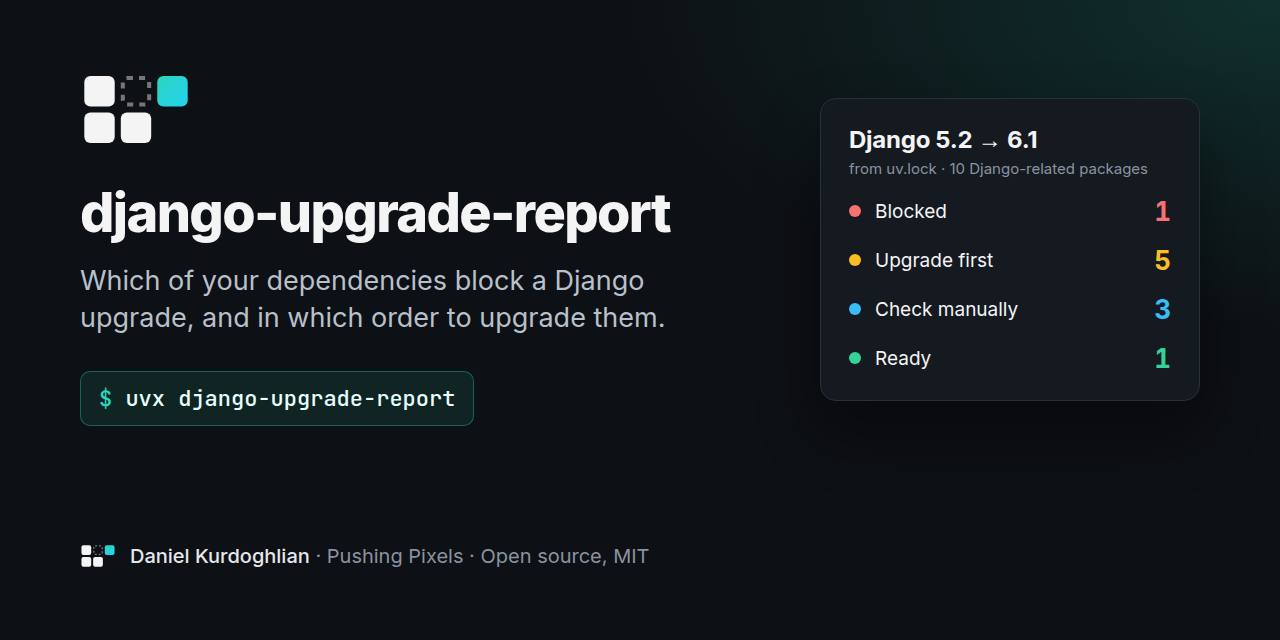
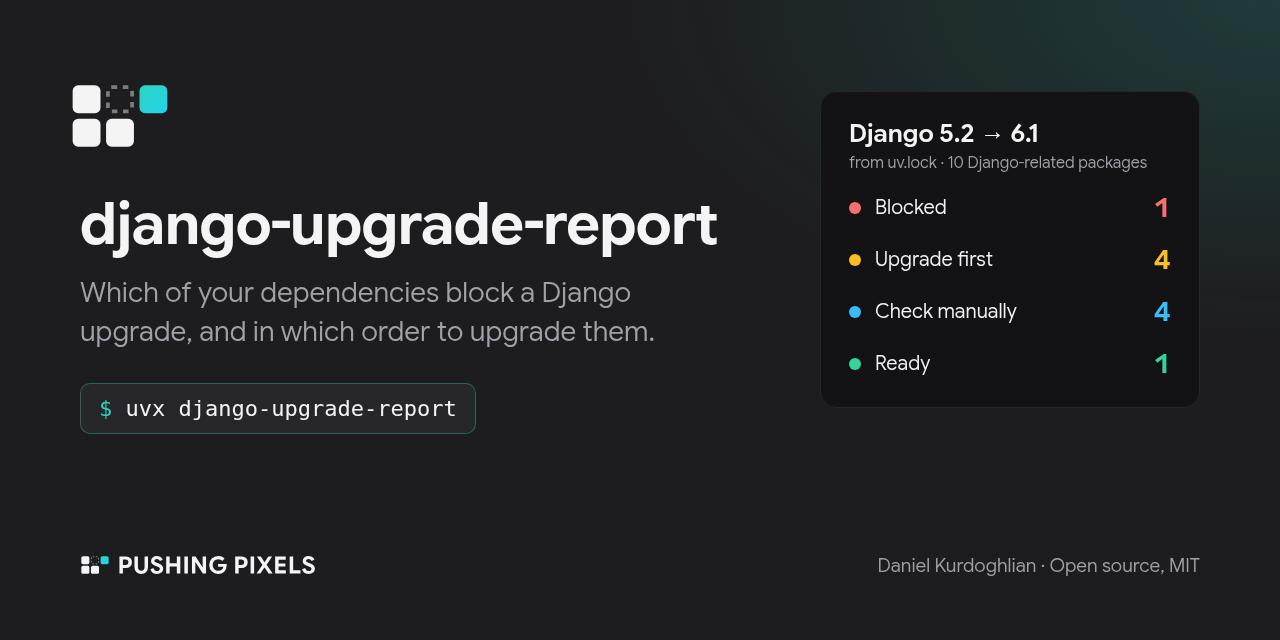
Use the official Pushing Pixels brand files
The README mark and footer now use the generated files from the
Pushing Pixels brand source instead of redrawn copies: glyph-on-light
and glyph-on-dark as the logo, and the lockup, the default signature,
in place of the animated profile banner. The social preview uses the
same glyph and lockup, the brand font Google Sans Flex and the ink
background, and no longer retypes the wordmark in a live font.

diff --git a/README.md b/README.md
@@ -3,7 +3,7 @@
 <a href="https://pushingpixels.at">
   <picture>
     <source media="(prefers-color-scheme: dark)" srcset="docs/assets/logo-dark.svg">
-    <img src="docs/assets/logo-light.svg" alt="Pushing Pixels" width="88">
+    <img src="docs/assets/logo-light.svg" alt="Pushing Pixels" width="96">
   </picture>
 </a>
 
@@ -300,7 +300,7 @@ Bug reports with a real lockfile are the most useful contribution. See [CONTRIBU
   <a href="https://pushingpixels.at">
     <picture>
       <source media="(prefers-color-scheme: dark)" srcset="docs/assets/pushing-pixels-dark.svg">
-      <img src="docs/assets/pushing-pixels-light.svg" alt="Pushing Pixels" width="420">
+      <img src="docs/assets/pushing-pixels-light.svg" alt="Pushing Pixels" width="320">
     </picture>
   </a>
   <p>Built and maintained by <a href="https://pushingpixels.at">Daniel Kurdoghlian</a> at <a href="https://pushingpixels.at">Pushing Pixels</a> in Vienna.<br>
